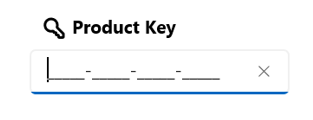
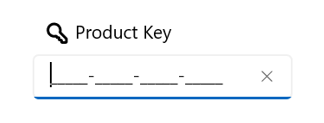
updated PR review changes.

diff --git a/winui/Masked-TextBox/Customization.md b/winui/Masked-TextBox/Customization.md
@@ -1,7 +1,7 @@
 ---
 layout: post
 title: Customization in WinUI MaskedTextBox control | Syncfusion
-description: Learn all about the customization in the MaskedTextBox (SfMaskedTextBox) control for Header, HeaderTemplate and Description.
+description: Learn all about the customization such as header, header template, and description support in the MaskedTextBox (SfMaskedTextBox) control.
 platform: WinUI
 control: SfMaskedTextBox
 documentation: ug
@@ -9,17 +9,16 @@ documentation: ug
 
 # Customization in WinUI MaskedTextBox
 
-This section explains about header, header template and description properties of MaskedTextBox.
+This section explains the header, header template, and description of MaskedTextBox.
 
 ## Header
 
-The `Header` property is used to display the title for the MaskedTextBox Control.
+The `Header` property is used to display the title for the MaskedTextBox control.
 
 {% tabs %}
 {% highlight XAML %}
 
-<syncfusion:SfMaskedTextBox x:Name="sfMaskedTextBox"
-                            Width="200"
+<syncfusion:SfMaskedTextBox Width="200"
                             MaskType="Simple"
                             Header="Product key"
                             Mask=">AAAAA-AAAAA-AAAAA-AAAAA" />
@@ -38,9 +37,12 @@ maskedTextBox.Mask = ">AAAAA-AAAAA-AAAAA-AAAAA";
 
 ![WinUI MaskedTextBox header](MaskedTextBox_Images/winui_masked_textbox_header.png)
 
-## Header Customization
+## Header template
 
 By using the `HeaderTemplate` property, you can customize the appearance of control's header. 
+
+{% tabs %}
+{% highlight XAML %}
 
 <syncfusion:SfMaskedTextBox Width="200" MaskType="Simple" Mask=">AAAAA-AAAAA-AAAAA-AAAAA">
     <syncfusion:SfMaskedTextBox.HeaderTemplate>
@@ -48,7 +50,7 @@ By using the `HeaderTemplate` property, you can customize the appearance of cont
             <StackPanel Orientation="Horizontal">
                 <Path Fill="Black" 
                         Data="M22.311 20.7506C22.311 17.5746 19.7364 15 16.5604 15C13.3845 15 10.8099 17.5746 10.8099 20.7506C10.8099 23.9265 13.3845 26.5011 16.5604 26.5011C16.8898 26.5011 17.2133 26.4733 17.5286 26.4198C17.7169 27.0177 18.2757 27.4512 18.9357 27.4512H19.3609V27.8764C19.3609 28.6911 20.0213 29.3515 20.836 29.3515H21.2611V29.7766C21.2611 30.5913 21.9215 31.2517 22.7362 31.2517H25.5249C26.3396 31.2517 27 30.5913 27 29.7766V27.5981C27 27.2069 26.8446 26.8317 26.568 26.5551L22.144 22.1311C22.2532 21.688 22.311 21.2254 22.311 20.7506ZM16.5604 17C18.6318 17 20.311 18.6792 20.311 20.7506C20.311 21.1292 20.2552 21.493 20.1521 21.8352C20.0027 22.3307 20.1036 22.9192 20.5208 23.3364L25 27.8156V29.2517H23.2611V28.8265C23.2611 28.0119 22.6007 27.3515 21.7861 27.3515H21.3609V26.9263C21.3609 26.1116 20.7005 25.4512 19.8858 25.4512H19.4147C19.1998 24.5974 18.2731 24.1788 17.5206 24.3773C17.2152 24.4579 16.8936 24.5011 16.5604 24.5011C14.4891 24.5011 12.8099 22.8219 12.8099 20.7506C12.8099 18.6792 14.4891 17 16.5604 17Z"/>
-                <TextBlock Text="Product Key" FontWeight="Bold" Margin="5,12,0,0"/>
+                <TextBlock Text="Product Key" Margin="5,12,0,0"/>
             </StackPanel>
         </DataTemplate>
     </syncfusion:SfMaskedTextBox.HeaderTemplate>
@@ -66,8 +68,7 @@ The `Description` support is used to display the content beneath the control as 
 {% tabs %}
 {% highlight XAML %}
 
-<syncfusion:SfMaskedTextBox x:Name="sfMaskedTextBox"
-                            Width="200"
+<syncfusion:SfMaskedTextBox Width="200"
                             MaskType="Simple"
                             Description="Plaese enter a valid product key"
                             Mask=">AAAAA-AAAAA-AAAAA-AAAAA" />

diff --git a/winui/Masked-TextBox/Formatting-Value.md b/winui/Masked-TextBox/Formatting-Value.md
@@ -23,8 +23,7 @@ Set up the MaskedTextBox to exclude prompt and literal characters, preserving on
 {% tabs %}
 {% highlight XAML %}
 
-<syncfusion:SfMaskedTextBox x:Name="sfMaskedTextBox"
-                            Width="195"
+<syncfusion:SfMaskedTextBox Width="200"
                             MaskType="Simple"
                             Mask=">AAAAA-AAAAA-AAAAA-AAAAA"
                             Value="DF321SD1A"
@@ -34,7 +33,7 @@ Set up the MaskedTextBox to exclude prompt and literal characters, preserving on
 {% highlight C# %}
 
 SfMaskedTextBox maskedTextBox = new SfMaskedTextBox();
-maskedTextBox.Width = "195";
+maskedTextBox.Width = "200";
 maskedTextBox.MaskType = MaskedTextBoxMaskType.Simple;
 maskedTextBox.Mask = ">AAAAA-AAAAA-AAAAA-AAAAA";
 maskedTextBox.Value = "DF321SD1A";
@@ -52,8 +51,7 @@ Set up the MaskedTextBox to preserve typed and prompt characters, excluding lite
 {% tabs %}
 {% highlight XAML %}
 
-<syncfusion:SfMaskedTextBox x:Name="sfMaskedTextBox"
-                            Width="195"
+<syncfusion:SfMaskedTextBox Width="200"
                             MaskType="Simple"
                             Mask=">AAAAA-AAAAA-AAAAA-AAAAA"
                             Value="DF321SD1A"
@@ -63,7 +61,7 @@ Set up the MaskedTextBox to preserve typed and prompt characters, excluding lite
 {% highlight C# %}
 
 SfMaskedTextBox maskedTextBox = new SfMaskedTextBox();
-maskedTextBox.Width = "195";
+maskedTextBox.Width = "200";
 maskedTextBox.MaskType = MaskedTextBoxMaskType.Simple;
 maskedTextBox.Mask = ">AAAAA-AAAAA-AAAAA-AAAAA";
 maskedTextBox.Value = "DF321SD1A";
@@ -81,8 +79,7 @@ Keep typed and literal characters in the input but exclude prompt characters.
 {% tabs %}
 {% highlight XAML %}
 
-<syncfusion:SfMaskedTextBox x:Name="sfMaskedTextBox"
-                            Width="195"
+<syncfusion:SfMaskedTextBox Width="200"
                             MaskType="Simple"
                             Mask=">AAAAA-AAAAA-AAAAA-AAAAA"
                             Value="DF321SD1A"
@@ -92,7 +89,7 @@ Keep typed and literal characters in the input but exclude prompt characters.
 {% highlight C# %}
 
 SfMaskedTextBox maskedTextBox = new SfMaskedTextBox();
-maskedTextBox.Width = "195";
+maskedTextBox.Width = "200";
 maskedTextBox.MaskType = MaskedTextBoxMaskType.Simple;
 maskedTextBox.Mask = ">AAAAA-AAAAA-AAAAA-AAAAA";
 maskedTextBox.Value = "DF321SD1A";
@@ -110,8 +107,7 @@ Maintain typed, prompt, and literal characters in the input.
 {% tabs %}
 {% highlight XAML %}
 
-<syncfusion:SfMaskedTextBox x:Name="sfMaskedTextBox"
-                            Width="195"
+<syncfusion:SfMaskedTextBox Width="200"
                             MaskType="Simple"
                             Mask=">AAAAA-AAAAA-AAAAA-AAAAA"
                             Value="DF321SD1A"
@@ -121,7 +117,7 @@ Maintain typed, prompt, and literal characters in the input.
 {% highlight C# %}
 
 SfMaskedTextBox maskedTextBox = new SfMaskedTextBox();
-maskedTextBox.Width = "195";
+maskedTextBox.Width = "200";
 maskedTextBox.MaskType = MaskedTextBoxMaskType.Simple;
 maskedTextBox.Mask = ">AAAAA-AAAAA-AAAAA-AAAAA";
 maskedTextBox.Value = "DF321SD1A";

diff --git a/winui/Masked-TextBox/Getting-Started.md b/winui/Masked-TextBox/Getting-Started.md
@@ -35,8 +35,7 @@ This section explains the steps required to add the WinUI MaskedTextBox control 
     Background="{ThemeResource ApplicationPageBackgroundThemeBrush}">
     <Grid>
         <!--Adding SfMaskedTextBox control for date mask.-->
-        <syncfusion:SfMaskedTextBox x:Name="sfMaskedTextBox"
-                                    Width="195"
+        <syncfusion:SfMaskedTextBox Width="200"
                                     MaskType="Simple"
                                     Mask="00/00/0000" />
     </Grid>
@@ -47,7 +46,7 @@ This section explains the steps required to add the WinUI MaskedTextBox control 
 
 // Creating an instance of the MaskedTextBox control.
 SfMaskedTextBox maskedTextBox = new SfMaskedTextBox();
-maskedTextBox.Width = "195";
+maskedTextBox.Width = "200";
 maskedTextBox.MaskType = MaskedTextBoxMaskType.Simple;
 maskedTextBox.Mask = "00/00/0000";
 
@@ -73,8 +72,7 @@ maskedTextBox.Mask = "00/00/0000";
     Background="{ThemeResource ApplicationPageBackgroundThemeBrush}">
     <Grid>
         <!--Adding SfMaskedTextBox control for email mask.-->
-        <syncfusion:SfMaskedTextBox x:Name="sfMaskedTextBox"
-                                    Width="195"
+        <syncfusion:SfMaskedTextBox Width="200"
                                     MaskType="RegEx"
                                     Mask="[A-Za-z0-9._%-]+@[A-Za-z0-9]+\.[A-Za-z]{2,3}" />
     </Grid>
@@ -85,7 +83,7 @@ maskedTextBox.Mask = "00/00/0000";
 
 // Creating an instance of the MaskedTextBox control.
 SfMaskedTextBox maskedTextBox = new SfMaskedTextBox();
-maskedTextBox.Width = "195";
+maskedTextBox.Width = "200";
 maskedTextBox.MaskType = MaskedTextBoxMaskType.RegEx;
 maskedTextBox.Mask = "[A-Za-z0-9._%-]+@[A-Za-z0-9]+\\.[A-Za-z]{2,3}";
 

diff --git a/winui/Masked-TextBox/Mask-Types.md b/winui/Masked-TextBox/Mask-Types.md
@@ -65,8 +65,7 @@ Shift up. Converts all the characters that follow to uppercase.</td></tr>
 {% tabs %}
 {% highlight XAML %}
 
-<syncfusion:SfMaskedTextBox x:Name="sfMaskedTextBox"
-                            Width="195"
+<syncfusion:SfMaskedTextBox Width="200"
                             MaskType="Simple"
                             Mask="(000) 000-0000" />
 
@@ -74,7 +73,7 @@ Shift up. Converts all the characters that follow to uppercase.</td></tr>
 {% highlight C# %}
 
 SfMaskedTextBox maskedTextBox = new SfMaskedTextBox();
-maskedTextBox.Width = "195";
+maskedTextBox.Width = "200";
 maskedTextBox.MaskType = MaskedTextBoxMaskType.Simple;
 maskedTextBox.Mask = "(000) 000-0000";
 
@@ -179,16 +178,15 @@ Accepts any character. It can be changed based on culture</td></tr>
 {% tabs %}
 {% highlight XAML %}
 
-<syncfusion:SfMaskedTextBox x:Name="sfMaskedTextBox"
-                            MaskType="RegEx"
-                            Width="195"
+<syncfusion:SfMaskedTextBox MaskType="RegEx"
+                            Width="200"
                             Mask="[A-Za-z0-9._%-]+@[A-Za-z0-9]+\.[A-Za-z]{2,3}" />
 
 {% endhighlight %}
 {% highlight C# %}
 
 SfMaskedTextBox maskedTextBox = new SfMaskedTextBox();
-maskedTextBox.Width = "195";
+maskedTextBox.Width = "200";
 maskedTextBox.MaskType = MaskedTextBoxMaskType.RegEx;
 maskedTextBox.Mask = "[A-Za-z0-9._%-]+@[A-Za-z0-9]+\.[A-Za-z]{2,3}";
 

diff --git a/winui/Masked-TextBox/Culture.md b/winui/Masked-TextBox/Culture.md
@@ -65,7 +65,7 @@ The following example shows how to set the the France culture for currency symbo
 {% highlight C# %}
 
 SfMaskedTextBox maskedTextBox = new SfMaskedTextBox();
-maskedTextBox.Width = "195";
+maskedTextBox.Width = "200";
 maskedTextBox.MaskType = MaskedTextBoxMaskType.Simple;
 maskedTextBox.Mask = "$ 0,000.00";
 maskedTextBox.Culture = new CultureInfo("fr-FR");
